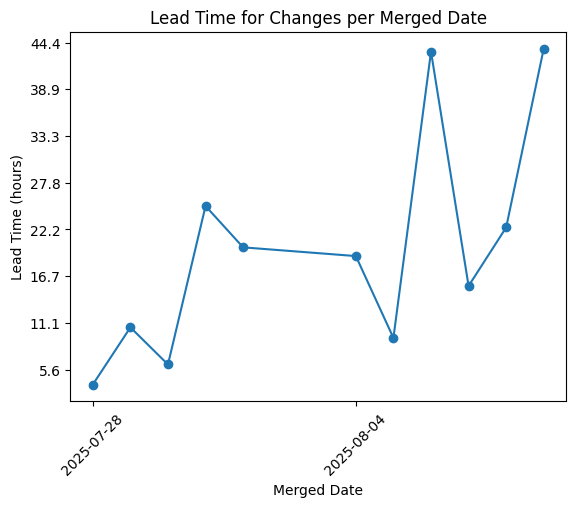
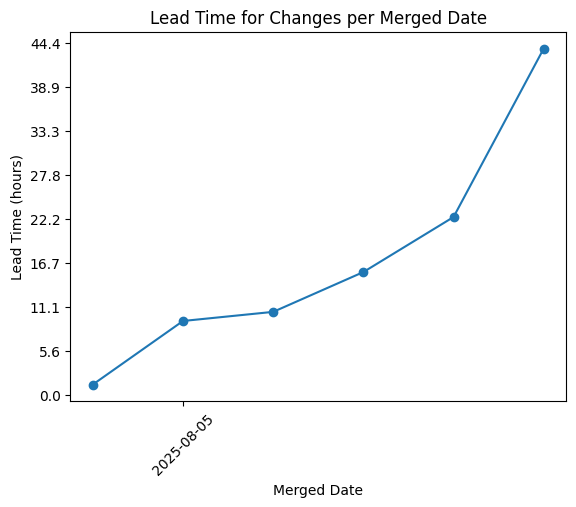
PullRequestExtractorクラスからデバッグ用のprint文を削除し、LeadTimeForChangesTransformerクラスにマージされていないレコードのチェックを追加しました。また、lead_time_chart.pngを更新しました。

diff --git a/agile_calculator/transformers/lead_time_for_changes_transformer.py b/agile_calculator/transformers/lead_time_for_changes_transformer.py
@@ -5,6 +5,8 @@ from ..records.pull_request_record import PullRequestRecord
 class LeadTimeForChangesTransformer:
     def run(self, records):
         for record in records:
+            if not record.merged_at:
+                continue
             lead_time_seconds = (record.merged_at - record.created_at).total_seconds()
             yield LeadTimeForChangesRecord(
                 number=record.number,

diff --git a/agile_calculator/extractors/github/pull_request_extractor.py b/agile_calculator/extractors/github/pull_request_extractor.py
@@ -28,7 +28,6 @@ class PullRequestExtractor(GitHubExtractor):
             if pr.created_at < datetime.now(pr.created_at.tzinfo) - timedelta(days=self.since_days):
                 break
             # TODO: 後でloggerに出力することを検討
-            print(pr)
             yield PullRequestRecord(
                 number=pr.number,
                 title=pr.title,
